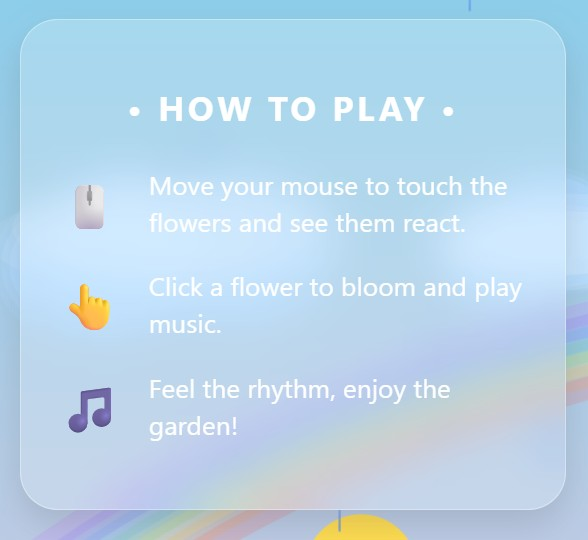
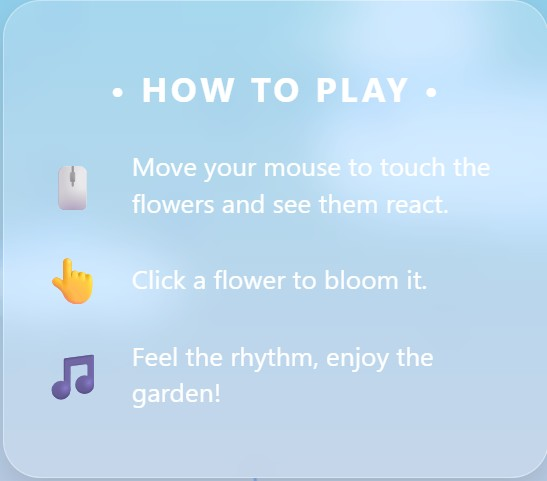
Change README and add more effect for flower blooming
At intervals, some flowers disappear—representing them withering—and new ones grow in the empty spaces; tapping on a flower makes its color more vibrant.

diff --git a/input_controls_fcao0453.js b/input_controls_fcao0453.js
@@ -1,43 +1,61 @@
-let flowers = [];
-let subtitleText = "Welcome to the Garden";
-let subtitleAlpha = 0;
-let targetAlpha = 0;
+let flowers = []; // 存储所有花朵对象的数组
+let subtitleText = "Welcome to the Garden"; // 屏幕显示的提示文本
+let subtitleAlpha = 0; // 字幕透明度
+let targetAlpha = 0; // 字幕目标透明度
+let lastWitherTime = 0; // 记录上次花朵凋谢的时间戳
 
 function setup() {
-  createCanvas(windowWidth, windowHeight);
-  colorMode(HSB, 360, 100, 100, 100);
+  createCanvas(windowWidth, windowHeight); 
+  colorMode(HSB, 360, 100, 100, 100); // 使用 HSB 模式（色相、饱和度、亮度、透明度）
 
-  // 初始化 15 朵花
-  for (let i = 0; i < 15; i++) {
-    let x = map(i, 0, 15, 60, width - 60);
+  // 初始化 18 朵花
+  for (let i = 0; i < 18; i++) {
+    let x = map(i, 0, 18, 60, width - 60); 
     let y = random(height * 0.65, height - 50); 
-    flowers.push(new Flower(x, y));
+    flowers.push(new Flower(x, y)); 
   }
+  lastWitherTime = millis(); // 记录程序启动时的毫秒数
 }
 
 function draw() {
-  background(200, 20, 95);
-  // Use clear() to maintain a transparent background—revealing the 
-  //Timebase effect—while preventing ghosting.
-  clear(); 
-  // 更新并渲染所有花朵
+  clear(); // 清除上一帧绘制，保持背景透明
+
+  // --- 改进点 2：凋谢重生频率改为 12 秒 ---
+  // millis() 是程序运行的总毫秒数，12000 毫秒即 12 秒
+  if (millis() - lastWitherTime > 12000) {
+    witherAndRegrow(); 
+    lastWitherTime = millis(); // 重置计时器
+    showSubtitle("Cycles of nature..."); // 更新底部文字
+  }
+
+  // 渲染所有花朵
   for (let f of flowers) {
     f.update(); 
     f.display(); 
   }
 
-  updateSubtitles();
+  updateSubtitles(); // 刷新字幕状态
 }
 
-// ---------------- 交互函数 ----------------
+// ---------------- 核心逻辑函数 ----------------
 
-function mouseMoved() {
-  for (let f of flowers) {
-    f.checkHover(mouseX, mouseY); 
+function witherAndRegrow() {
+  // 随机选出 3 朵花进行位置替换
+  for (let k = 0; k < 3; k++) {
+    let index = floor(random(flowers.length)); // 随机选一个现有的花朵索引
+    // 在画布草地范围内重新生成随机坐标
+    let newX = random(60, width - 60); 
+    let newY = random(height * 0.65, height - 50);
+    // 用一个全新的 Flower 对象替换数组中旧的对象，实现消失并重生的效果
+    flowers[index] = new Flower(newX, newY); 
   }
 }
 
-// ---------------- 字幕系统 ----------------
+function mouseMoved() {
+  for (let f of flowers) {
+    f.checkHover(mouseX, mouseY); // 鼠标移动时检测碰撞触发摆动
+  }
+}
 
 function showSubtitle(txt) {
   subtitleText = txt;
@@ -47,9 +65,7 @@ function showSubtitle(txt) {
 
 function updateSubtitles() {
   subtitleAlpha = lerp(subtitleAlpha, targetAlpha, 0.05);
-  // HSB参数说明：0 色相(无所谓), 0 饱和度(设为0即无色), 100 亮度(设为100即最亮白), 
-  //subtitleAlpha 透明度
-  fill(0, 0, 100, subtitleAlpha);
+  fill(0, 0, 100, subtitleAlpha); // 白色文字
   noStroke();
   textAlign(CENTER);
   textSize(20);
@@ -64,16 +80,22 @@ class Flower {
     this.y = y;
     
     // --- 生长参数 ---
-    this.baseSize = random(30, 60);       
-    this.currentSize = 0;                 // 初始大小为0
+    this.baseSize = random(35, 60);       
+    this.currentSize = 0;                 
     this.targetSize = this.baseSize;      
     
-    this.maxStemHeight = random(80, 120); // 略微增加高度，让叶子和花分得更开
-    this.currentStemHeight = 0;           // 初始高度为0，实现向上生长
-    this.growthSpeed = random(0.01, 0.03);
+    this.maxStemHeight = random(70, 110); 
+    this.currentStemHeight = 0;           
+    this.growthSpeed = random(0.015, 0.035);
     
-    this.petalCount = floor(map(this.baseSize, 30, 60, 5, 8.9)); 
-    this.hue = random(240, 360);          
+    // --- 颜色参数 ---
+    this.petalCount = floor(map(this.baseSize, 35, 60, 5, 8.5)); 
+    let colorOptions = [330, 200, 270, 290]; // 粉色、蓝色、紫色系
+    this.baseHue = random(colorOptions); 
+    
+    // --- 改进点 1：调深未点击状态的颜色 ---
+    this.currentSat = 45; // 初始饱和度从 20 提高到 45，让颜色看起来更深更明显
+    this.targetSat = 45;  // 默认目标饱和度
     
     this.angle = 0;                       
     this.swingForce = 0;                  
@@ -81,27 +103,30 @@ class Flower {
   }
 
   update() {
-    // 1. 生长逻辑
+    // 平滑生长逻辑
     this.currentStemHeight = lerp(this.currentStemHeight, this.maxStemHeight, this.growthSpeed);
-    
-    // 2. 花头大小同步：随高度生长同步平滑放大
     let sizeProgress = map(this.currentStemHeight, 0, this.maxStemHeight, 0, this.targetSize);
     this.currentSize = lerp(this.currentSize, sizeProgress, 0.1);
 
-    // 3. 摆动恢复逻辑
+    // 饱和度过渡逻辑
+    this.currentSat = lerp(this.currentSat, this.targetSat, 0.1);
+
+    // 摇摆物理逻辑
     this.swingForce = lerp(this.swingForce, 0, 0.05); 
     this.angle = sin(frameCount * 0.1) * this.swingForce;
 
-    // 4. 长按交互
+    // 长按交互逻辑
     if (this.currentStemHeight > this.maxStemHeight * 0.8) {
       if (mouseIsPressed && dist(mouseX, mouseY, this.x, this.y - this.currentStemHeight) < this.currentSize) {
-        this.targetSize = this.baseSize * 1.8; 
+        this.targetSize = this.baseSize * 1.6; 
+        this.targetSat = 90; // 被点击时变得非常鲜艳
         if (!this.isBeingPressed) {
-          showSubtitle("Deeply growing..."); 
+          showSubtitle("Energy flowing into the petals!"); 
           this.isBeingPressed = true;
         }
       } else {
         this.targetSize = this.baseSize;      
+        this.targetSat = 45; // 松开后恢复到稍深但不极端的颜色
         this.isBeingPressed = false;
       }
     }
@@ -112,68 +137,61 @@ class Flower {
     translate(this.x, this.y); 
     rotate(this.angle); 
 
-    // --- 绘制花茎 ---
-    stroke(140, 40, 30); // 深绿色
-    strokeWeight(5);
+    // 绘制花茎
+    stroke(140, 40, 30); 
+    strokeWeight(4);
     line(0, 0, 0, -this.currentStemHeight); 
 
-    // --- 绘制叶子 (修改：位置较低且左右对称) ---
+    // 绘制叶子
     if (this.currentStemHeight > 20) {
-      // 将叶子固定在花茎底部向上 20% 的高度处，确保不重叠
-      let leafY = -this.currentStemHeight * 0.2; 
-      this.drawLeaf(0, leafY, true);  // 左侧叶子
-      this.drawLeaf(0, leafY, false); // 右侧叶子
+      let leafY = -this.currentStemHeight * 0.25; 
+      this.drawLeaf(0, leafY, true);  
+      this.drawLeaf(0, leafY, false); 
     }
 
-    // 移动坐标到花头
-    translate(0, -this.currentStemHeight);
+    translate(0, -this.currentStemHeight); // 移动到花茎顶端绘制花头
 
-    // --- Draw the petals ---
+    // --- 改进点 1：绘制花瓣，设置不透明度为 90 ---
     if (this.currentStemHeight > 10) {
       noStroke();
-      fill(this.hue, 70, 90, 95);
+      // fill 参数：色相, 饱和度, 亮度, 不透明度(90)
+      fill(this.baseHue, this.currentSat, 95, 90); 
+      
       for (let i = 0; i < this.petalCount; i++) {
         push();
         rotate(TWO_PI * i / this.petalCount); 
-        ellipse(this.currentSize * 0.5, 0, this.currentSize * 0.8, this.currentSize * 0.4);
+        // 绘制花瓣椭圆
+        ellipse(this.currentSize * 0.4, 0, this.currentSize * 0.8, this.currentSize * 0.4);
         pop();
       }
 
-      // --- Draw the stamens ---
-      fill(50, 80, 100);
-      circle(0, 0, this.currentSize * 0.3);
+      // 绘制花蕊
+      fill(50, 70, 100); 
+      circle(0, 0, this.currentSize * 0.25);
     }
-    
     pop(); 
   }
 
-  //Leaf rendering function
   drawLeaf(lx, ly, side) {
     push();
     translate(lx, ly);
-    // side 为 true 画左边（向上倾斜），false 画右边（向上倾斜）
-    if (side) {
-      rotate(PI + QUARTER_PI); // 向左上方倾斜
-    } else {
-      rotate(-QUARTER_PI);     // 向右上方倾斜
-    }
+    if (side) { rotate(PI + QUARTER_PI); } 
+    else { rotate(-QUARTER_PI); }
     
-    fill(140, 60, 35); // 叶子颜色
+    fill(140, 55, 35); 
     noStroke();
     
-    // 叶子大小随花茎高度稍微变化，但保持在较小范围
-    let leafW = map(this.currentStemHeight, 0, this.maxStemHeight, 5, 18);
-    let leafH = leafW * 0.5;
+    let leafScale = map(this.baseSize, 35, 60, 0.7, 1.4);
+    let leafW = map(this.currentStemHeight, 0, this.maxStemHeight, 5, 20) * leafScale;
     
-    // 绘制叶子，起点设为 0，让它看起来长在杆子上
-    ellipse(leafW / 2, 0, leafW, leafH);
+    ellipse(leafW / 2, 0, leafW, leafW * 0.5);
     pop();
   }
 
   checkHover(mx, my) {
     let d = dist(mx, my, this.x, this.y - this.currentStemHeight);
-    if (d < 50) {
-      this.swingForce = 0.4; 
+    if (d < 45) {
+      this.swingForce = 0.45; 
     }
   }
 }

diff --git a/index.html b/index.html
@@ -41,7 +41,7 @@
         </div>
         <div class="instruction-item">
             <span class="icon">👆</span>
-            <p>Click a flower to bloom and play music.</p>
+            <p>Click a flower to bloom it.</p>
         </div>
         <div class="instruction-item">
             <span class="icon">🎵</span>